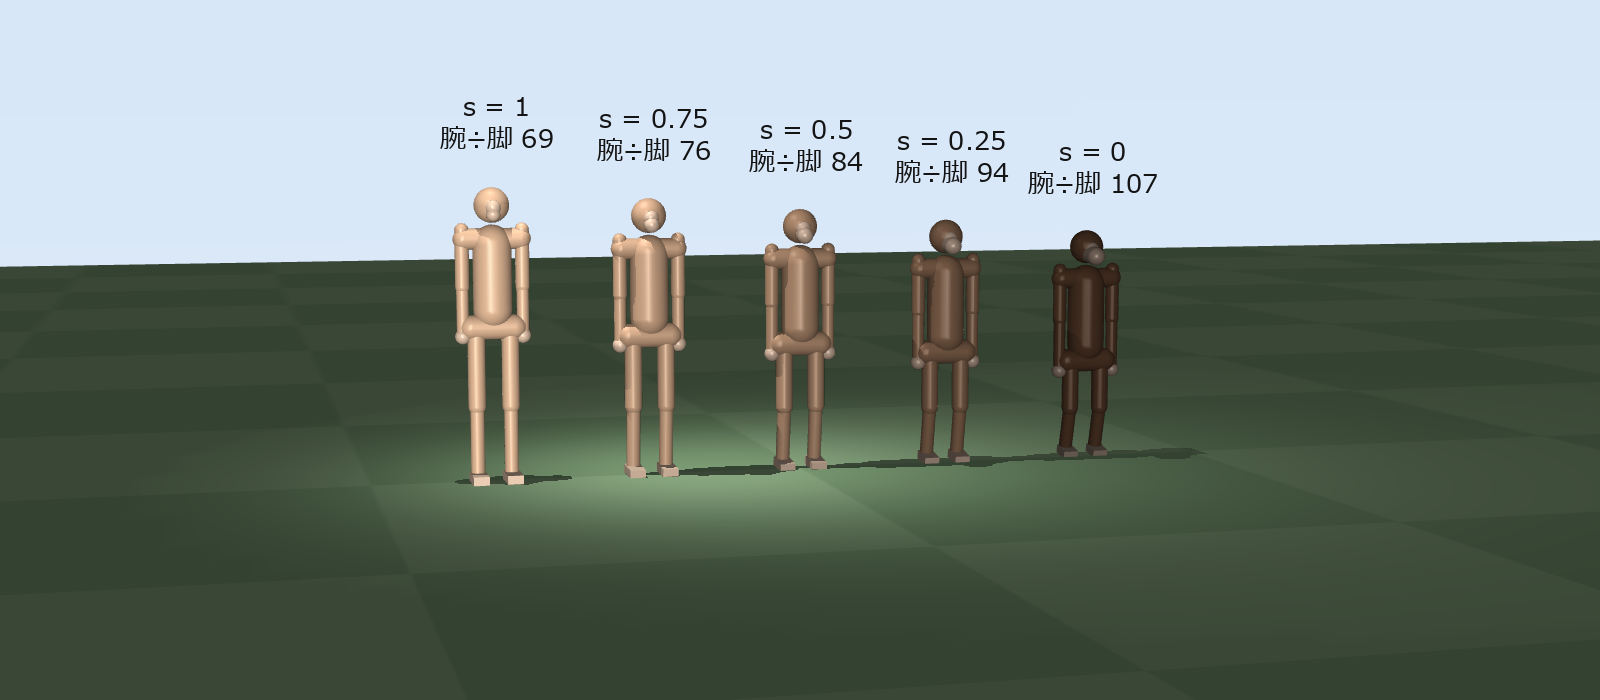
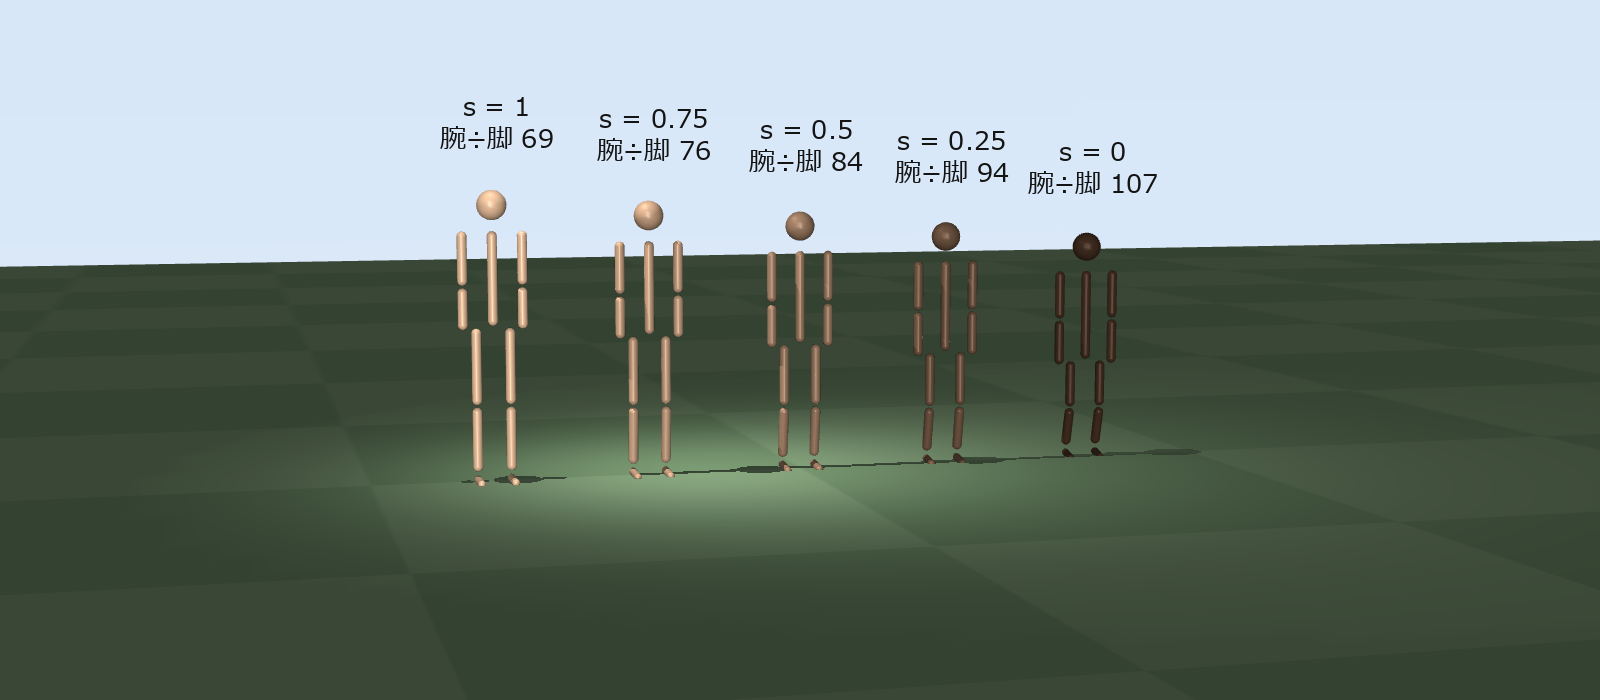
2 足歩行: 見た目を棒人間に (肩・腰の横棒と太い胴体を表示しない。物理の体は変えない)

diff --git a/sim/bipedal/body.py b/sim/bipedal/body.py
@@ -9,6 +9,7 @@ from dataclasses import dataclass
 
 TRUNK = 0.5        # 胴体の長さ (骨盤から肩まで)
 TOTAL_MASS = 45.0  # 体重 (すべての s で同じにして比べる)
+GAP = 0.035        # 棒人間の見た目で、関節のつなぎ目を空ける長さ
 
 
 def lerp(a, b, s):
@@ -64,6 +65,10 @@ def body_xml(s, prefix="", pos=(0, 0, 1.0)):
     m_head = TOTAL_MASS * 0.075
     m_trunk = TOTAL_MASS - 2 * m_arm - 2 * m_leg - m_head
     hw = 0.12  # 骨盤・肩の半分の幅
+    # 見た目は棒人間: 当たり判定と重さの形 (group 3) は表示せず、細い線を重さ 0 で重ねる。つなぎ目は GAP だけ空ける
+    vis = f'contype="0" conaffinity="0" mass="0" rgba="{col}"'
+    stick = lambda a, b: f'<geom type="capsule" fromto="0 0 {a + GAP * (1 if b > a else -1):.4f} 0 0 {b - GAP * (1 if b > a else -1):.4f}" size="0.028" {vis}/>'
+    stick_x = lambda a, b, z: f'<geom type="capsule" fromto="{a:.4f} 0 {z} {b:.4f} 0 {z}" size="0.022" {vis}/>'
 
     def leg(side, y):
         # 脚の重さは 大腿 : 下腿 : 足 = 0.6 : 0.3 : 0.1 (仮定)
@@ -72,15 +77,15 @@ def body_xml(s, prefix="", pos=(0, 0, 1.0)):
         <joint name="{p}{side}_hip_y" axis="0 1 0" range="{-120} {sh.hip_ext:.1f}"/>
         <joint name="{p}{side}_hip_x" axis="1 0 0" range="-30 30"/>
         <joint name="{p}{side}_hip_z" axis="0 0 1" range="-30 30"/>
-        <geom type="capsule" fromto="0 0 0 0 0 {-sh.thigh:.4f}" size="0.05" mass="{m_leg * 0.6:.3f}" rgba="{col}"/>
+        <geom type="capsule" fromto="0 0 0 0 0 {-sh.thigh:.4f}" size="0.05" mass="{m_leg * 0.6:.3f}" group="3"/>{stick(0, -sh.thigh)}
         <body name="{p}{side}_shank" pos="0 0 {-sh.thigh:.4f}">
           <joint name="{p}{side}_knee" axis="0 1 0" range="{sh.knee_min:.1f} 150"/>
-          <geom type="capsule" fromto="0 0 0 0 0 {-sh.shank:.4f}" size="0.04" mass="{m_leg * 0.3:.3f}" rgba="{col}"/>
+          <geom type="capsule" fromto="0 0 0 0 0 {-sh.shank:.4f}" size="0.04" mass="{m_leg * 0.3:.3f}" group="3"/>{stick(0, -sh.shank)}
           <body name="{p}{side}_foot" pos="0 0 {-sh.shank:.4f}">
             <joint name="{p}{side}_ankle_y" axis="0 1 0" range="-45 45"/>
             <joint name="{p}{side}_ankle_x" axis="1 0 0" range="-25 25"/>
             <geom name="{p}{side}_foot" type="box" pos="{(sh.foot / 2 - sh.heel):.4f} 0 -0.025" size="{sh.foot / 2:.4f} 0.045 0.025"
-                  mass="{m_leg * 0.1:.3f}" rgba="{skin}"/>
+                  mass="{m_leg * 0.1:.3f}" group="3"/>{stick_x(-sh.heel + GAP, sh.foot - sh.heel, -0.04)}
           </body>
         </body>
       </body>"""
@@ -91,11 +96,11 @@ def body_xml(s, prefix="", pos=(0, 0, 1.0)):
         <body name="{p}{side}_upper_arm" pos="0 {y} {TRUNK:.4f}">
           <joint name="{p}{side}_shoulder_y" axis="0 1 0" range="-180 60"/>
           <joint name="{p}{side}_shoulder_x" axis="1 0 0" range="-20 120" ref="0"/>
-          <geom type="capsule" fromto="0 0 0 0 0 {-sh.upper_arm:.4f}" size="0.04" mass="{m_arm * 0.5:.3f}" rgba="{col}"/>
+          <geom type="capsule" fromto="0 0 0 0 0 {-sh.upper_arm:.4f}" size="0.04" mass="{m_arm * 0.5:.3f}" group="3"/>{stick(0, -sh.upper_arm)}
           <body name="{p}{side}_forearm" pos="0 0 {-sh.upper_arm:.4f}">
             <joint name="{p}{side}_elbow" axis="0 1 0" range="-150 0"/>
-            <geom type="capsule" fromto="0 0 0 0 0 {-sh.forearm:.4f}" size="0.035" mass="{m_arm * 0.35:.3f}" rgba="{col}"/>
-            <geom name="{p}{side}_hand" type="sphere" pos="0 0 {-sh.forearm - 0.03:.4f}" size="0.045" mass="{m_arm * 0.15:.3f}" rgba="{skin}"/>
+            <geom type="capsule" fromto="0 0 0 0 0 {-sh.forearm:.4f}" size="0.035" mass="{m_arm * 0.35:.3f}" group="3"/>{stick(0, -sh.forearm)}
+            <geom name="{p}{side}_hand" type="sphere" pos="0 0 {-sh.forearm - 0.03:.4f}" size="0.045" mass="{m_arm * 0.15:.3f}" group="3"/>
           </body>
         </body>"""
 
@@ -105,17 +110,16 @@ def body_xml(s, prefix="", pos=(0, 0, 1.0)):
     return f"""
   <body name="{p}pelvis" pos="{_f(*pos)}">
     <freejoint name="{p}root"/>
-    <geom type="capsule" fromto="0 {-hw} 0 0 {hw} 0" size="0.07" mass="{m_trunk * 0.4:.3f}" rgba="{col}"/>
+    <geom type="capsule" fromto="0 {-hw} 0 0 {hw} 0" size="0.07" mass="{m_trunk * 0.4:.3f}" group="3"/>
     {leg("l", hw * 0.8)}
     {leg("r", -hw * 0.8)}
     <body name="{p}chest" pos="0 0 0.05">
       <joint name="{p}waist" axis="0 1 0" range="-30 45"/>
-      <geom type="capsule" fromto="0 0 0.05 0 0 {TRUNK - 0.08:.4f}" size="0.11" mass="{m_trunk * 0.45:.3f}" rgba="{col}"/>
-      <geom type="capsule" fromto="0 {-hw - 0.04} {TRUNK - 0.05:.4f} 0 {hw + 0.04} {TRUNK - 0.05:.4f}" size="0.06" mass="{m_trunk * 0.15:.3f}" rgba="{col}"/>
+      <geom type="capsule" fromto="0 0 0.05 0 0 {TRUNK - 0.08:.4f}" size="0.11" mass="{m_trunk * 0.45:.3f}" group="3"/>{stick(-0.05, TRUNK)}
+      <geom type="capsule" fromto="0 {-hw - 0.04} {TRUNK - 0.05:.4f} 0 {hw + 0.04} {TRUNK - 0.05:.4f}" size="0.06" mass="{m_trunk * 0.15:.3f}" group="3"/>
       <body name="{p}head" pos="0 0 {TRUNK + 0.14:.4f}">
-        <geom type="sphere" size="0.1" mass="{m_head:.3f}" rgba="{col}"/>
-        <geom type="sphere" pos="0.075 0 -0.01" size="0.045" contype="0" conaffinity="0" mass="0" rgba="{skin}"/>
-        <geom type="capsule" fromto="0.06 0 -0.04 {0.08 + sh.muzzle:.4f} 0 -0.05" size="{0.04 + sh.muzzle * 0.2:.4f}" contype="0" conaffinity="0" mass="0" rgba="{skin}"/>
+        <geom type="sphere" size="0.1" mass="{m_head:.3f}" group="3"/>
+        <geom type="sphere" size="0.085" {vis}/>
       </body>
       {left_arm}
       {right_arm}
